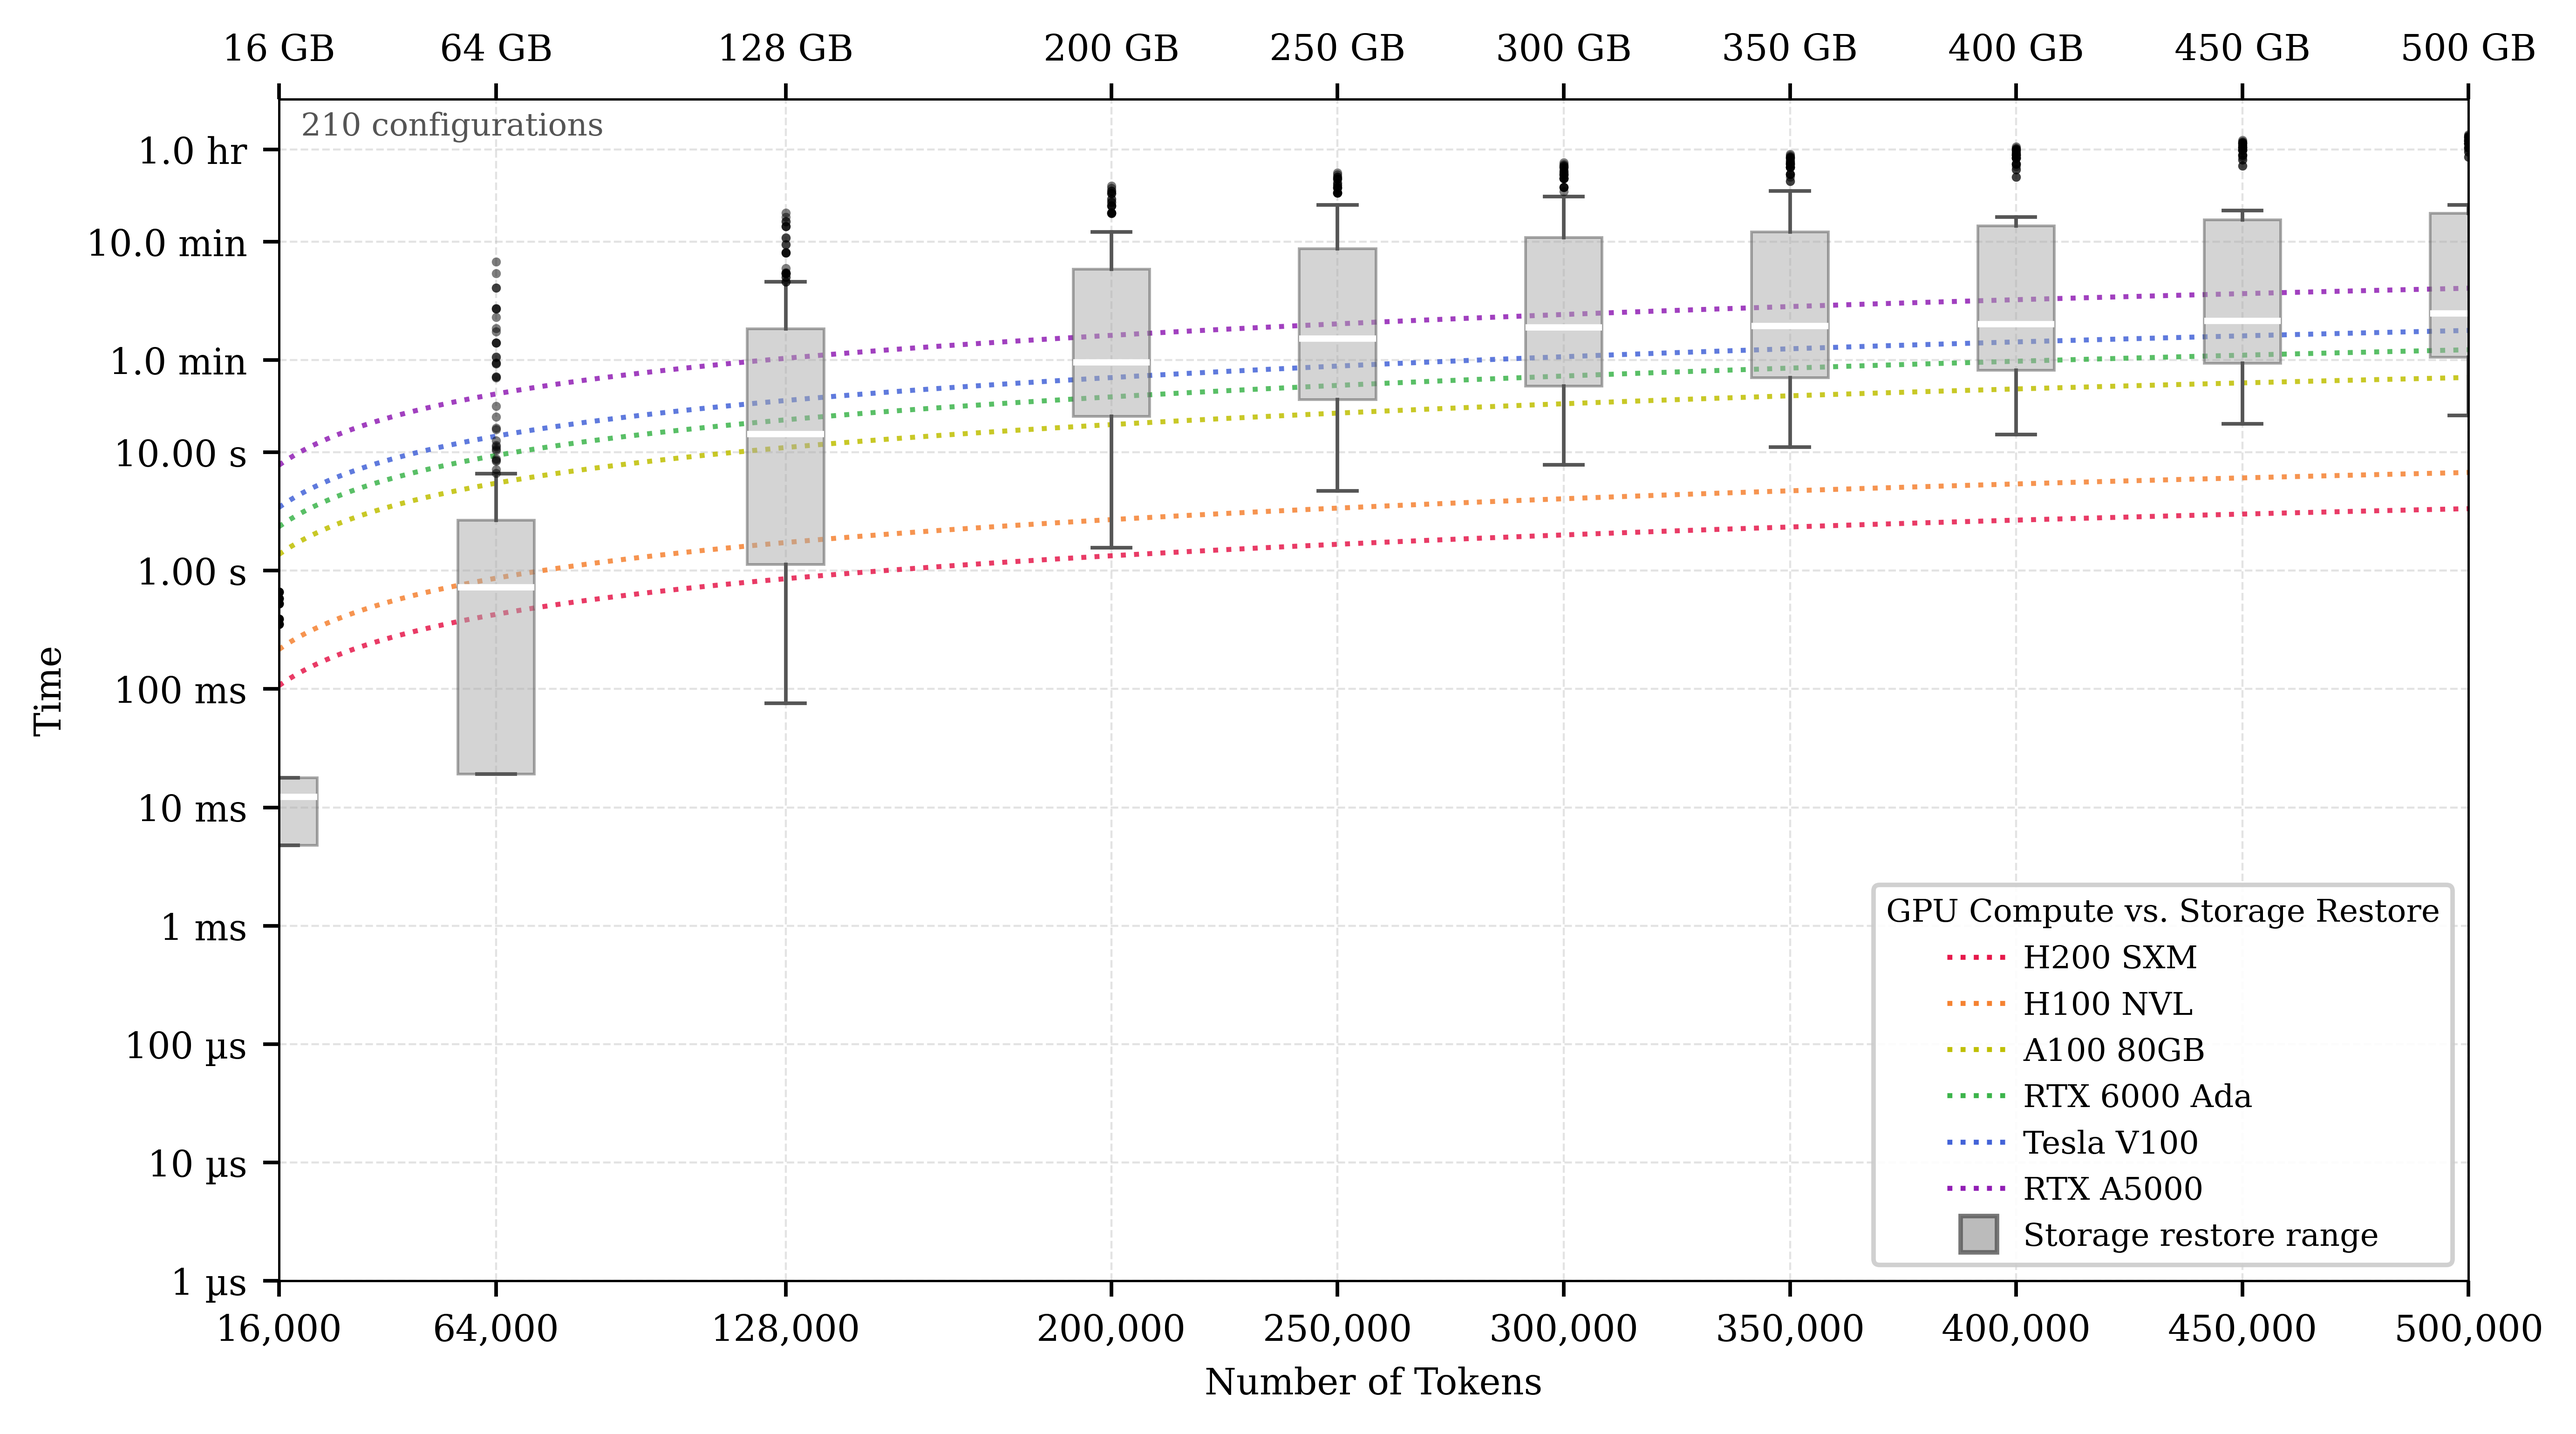
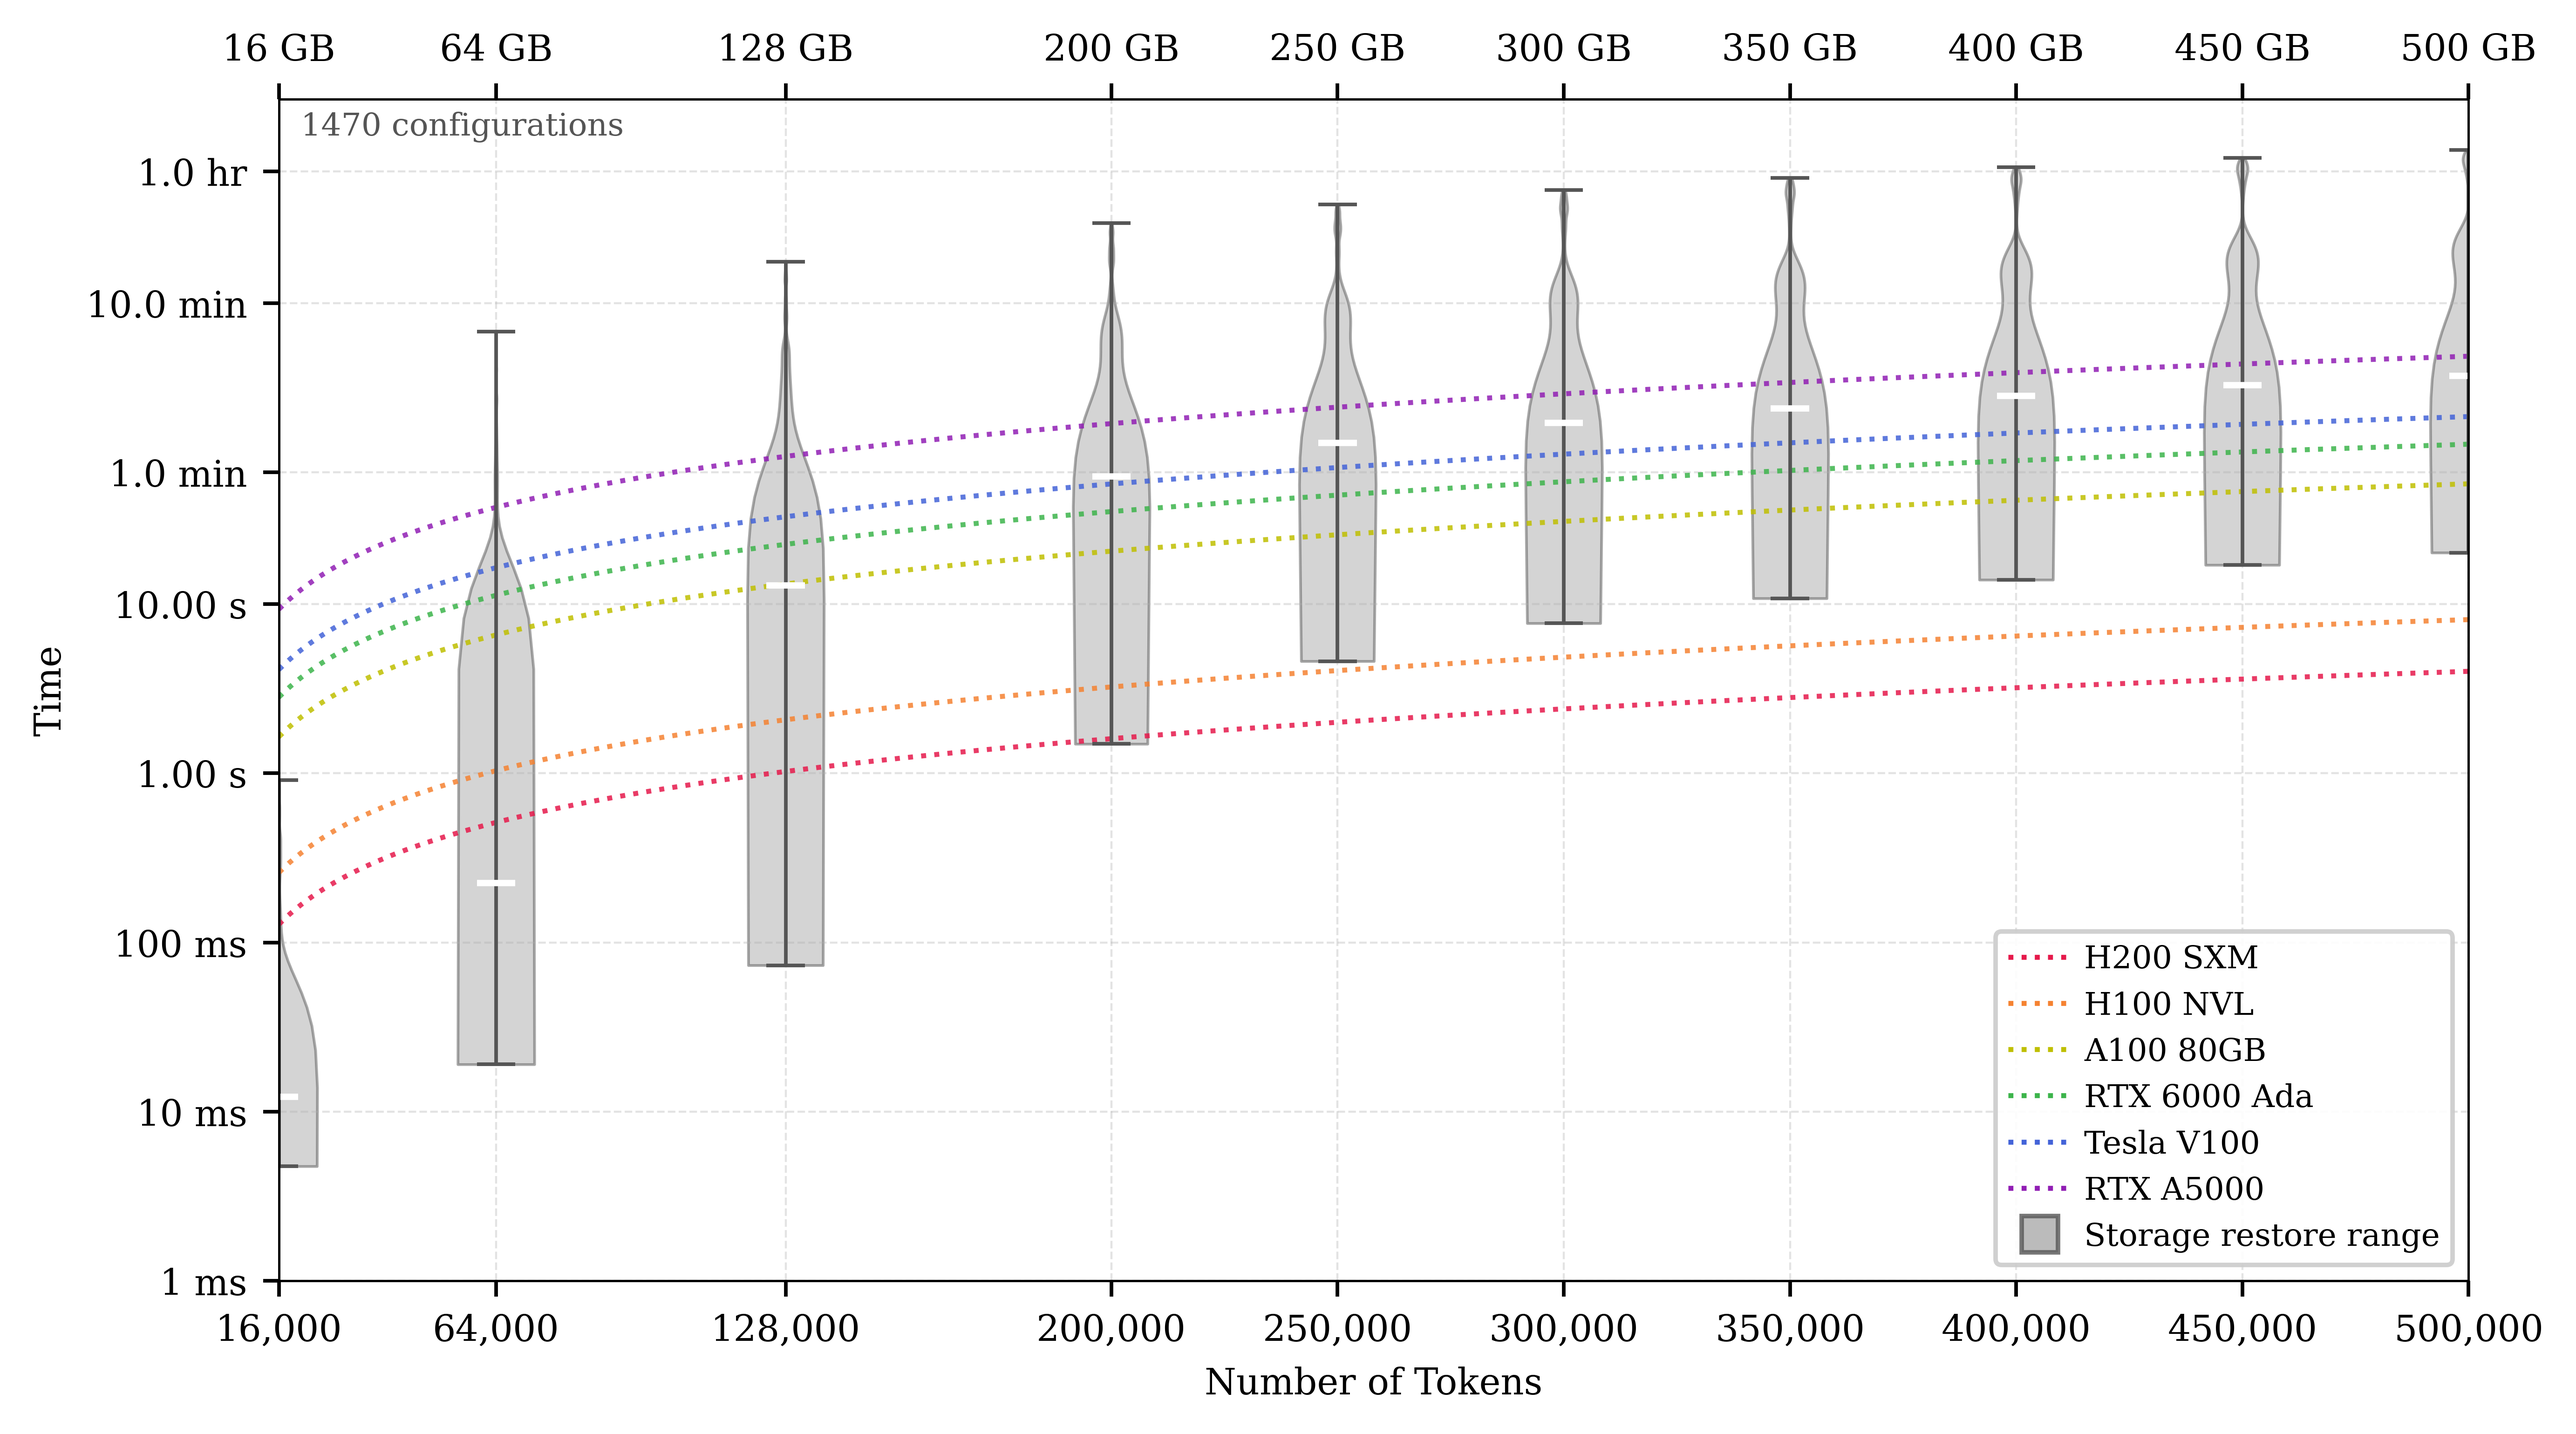
update: scripts

diff --git a/src/pool.py b/src/pool.py
@@ -6,89 +6,89 @@ from .link import Link
 # Define common GPU hardware configurations
 GPUS = {
     # H200 SXM: 3360 GB/s HBM, 141 GB HBM capacity, 4000 TFLOPS peak FP
-    "H200": GPU(name="H200 SXM", hbm_bandwidth=3360e9, hbm_capacity=141e9, peak_flops=4000e12),
+    "H200": GPU(name="H200 SXM", hbm_bandwidth=3360e9, hbm_capacity=141e9, peak_flops=4000e12, cost=40_000),
     # H100 NVL: 3360 GB/s HBM, 80 GB HBM capacity, 4000 TFLOPS peak FP
-    "H100": GPU(name="H100 NVL", hbm_bandwidth=3360e9, hbm_capacity=80e9, peak_flops=1979e12),
+    "H100": GPU(name="H100 NVL", hbm_bandwidth=3360e9, hbm_capacity=80e9, peak_flops=1979e12, cost=24_500),
     # A100 80GB: 2039 GB/s HBM, 80 GB HBM capacity, 312 TFLOPS peak FP
-    "A100": GPU(name="A100 80GB", hbm_bandwidth=2039e9, hbm_capacity=80e9, peak_flops=312e12),
+    "A100": GPU(name="A100 80GB", hbm_bandwidth=2039e9, hbm_capacity=80e9, peak_flops=312e12, cost=12_000),
     # RTX 6000 Ada: 960 GB/s HBM, 48 GB HBM capacity, 182 TFLOPS peak FP
-    "RTX6000": GPU(name="RTX 6000 Ada", hbm_bandwidth=960e9, hbm_capacity=48e9, peak_flops=182e12),
+    "RTX6000": GPU(name="RTX 6000 Ada", hbm_bandwidth=960e9, hbm_capacity=48e9, peak_flops=182e12, cost=8_000),
     # Tesla V100: 897 GB/s HBM, 32 GB HBM capacity, 125 TFLOPS peak FP
-    "V100": GPU(name="Tesla V100", hbm_bandwidth=897e9, hbm_capacity=32e9, peak_flops=125e12),
+    "V100": GPU(name="Tesla V100", hbm_bandwidth=897e9, hbm_capacity=32e9, peak_flops=125e12, cost=3_000),
     # RTX A5000: 768 GB/s HBM, 24 GB HBM capacity, 55 TFLOPS peak FP
-    "A5000": GPU(name="RTX A5000", hbm_bandwidth=768e9, hbm_capacity=24e9, peak_flops=55e12),
+    "A5000": GPU(name="RTX A5000", hbm_bandwidth=768e9, hbm_capacity=24e9, peak_flops=55e12, cost=2_300),
 
     # Grouping by generation
-    "High-End": GPU(name="High-End", hbm_bandwidth=3360e9, hbm_capacity=141e9, peak_flops=4000e12),
-    "Mid-Range": GPU(name="Mid-Range", hbm_bandwidth=2039e9, hbm_capacity=80e9, peak_flops=312e12),
+    "High-End": GPU(name="High-End", hbm_bandwidth=3360e9, hbm_capacity=141e9, peak_flops=4000e12, cost=40_000),
+    "Mid-Range": GPU(name="Mid-Range", hbm_bandwidth=2039e9, hbm_capacity=80e9, peak_flops=312e12, cost=12_000),
 }
 
 # Define common DRAM configurations
 DRAMS = {
     "DDR5-6000": DRAM(
-        name="DDR5-6000", bandwidth=85e9, capacity=32e9
+        name="DDR5-6000", bandwidth=85e9, capacity=32e9, cost=500
     ),  # 85 GB/s, 32 GB
     "DDR5-7200": DRAM(
-        name="DDR5-7200", bandwidth=81e9, capacity=32e9
+        name="DDR5-7200", bandwidth=81e9, capacity=32e9, cost=490
     ),  # 81 GB/s, 32 GB
     "DDR5-5600": DRAM(
-        name="DDR5-5600", bandwidth=62e9, capacity=32e9
+        name="DDR5-5600", bandwidth=62e9, capacity=32e9, cost=280
     ),  # 62 GB/s, 32 GB
     "DDR4-3200": DRAM(
-        name="DDR4-3200", bandwidth=30e9, capacity=16e9
+        name="DDR4-3200", bandwidth=30e9, capacity=16e9, cost=150
     ),  # 30 GB/s, 16 GB
     "DDR4-2133": DRAM(
-        name="DDR4-2133", bandwidth=25e9, capacity=16e9
+        name="DDR4-2133", bandwidth=25e9, capacity=16e9, cost=120
     ),  # 25 GB/s, 16 GB
     "DDR3-1600": DRAM(
-        name="DDR3-1600", bandwidth=20e9, capacity=8e9
+        name="DDR3-1600", bandwidth=20e9, capacity=8e9, cost=60
     ),  # 20 GB/s, 8 GB
 
     # Grouping by generation
-    "DDR5": DRAM(name="DDR5", bandwidth=85e9, capacity=32e9),  # 85 GB/s, 32 GB
-    "DDR4": DRAM(name="DDR4", bandwidth=30e9, capacity=32e9),  # 30 GB/s, 32 GB
+    "DDR5": DRAM(name="DDR5", bandwidth=85e9, capacity=32e9, cost=500),  # 85 GB/s, 32 GB
+    "DDR4": DRAM(name="DDR4", bandwidth=30e9, capacity=32e9, cost=150),  # 30 GB/s, 32 GB
 }
 
 # Define common disk configurations
 DISKS = {
     "HDD": Disk(
-        name="HDD", bandwidth=100e6, capacity=4e12
+        name="HDD", bandwidth=100e6, capacity=4e12, cost=100
     ),  # 100 MB/s, 4 TB
     "X110": Disk(
-        name="SSD X110 SATA M.2", bandwidth=300e6, capacity=256e9
-    ),  # 300 MB/s, 256 GB
+        name="SSD X110 SATA M.2", bandwidth=300e6, capacity=2e12, cost=200
+    ),  # 300 MB/s, 2 TB
     "M550": Disk(
-        name="SSD M550 SATA M.2", bandwidth=400e6, capacity=512e9
+        name="SSD M550 SATA M.2", bandwidth=400e6, capacity=512e9, cost=150
     ),  # 400 MB/s, 512 GB
     "NVMe980": Disk(
-        name="SSD NVMe 980 M.2", bandwidth=2e9, capacity=2e12
+        name="SSD NVMe 980 M.2", bandwidth=2e9, capacity=2e12, cost=300
     ),  # 2 GB/s, 2 TB
     "NVMeT700": Disk(
-        name="SSD NVMe T700 M.2", bandwidth=5e9, capacity=4e12
+        name="SSD NVMe T700 M.2", bandwidth=5e9, capacity=4e12, cost=500
     ),  # 5 GB/s, 4 TB
     "NVMeT700R0": Disk(
-        name="SSD NVMe T700 M.2 (Raid 0)", bandwidth=10e9, capacity=8e12
+        name="SSD NVMe T700 M.2 (Raid 0)", bandwidth=10e9, capacity=8e12, cost=1000
     ),  # 10 GB/s, 8 TB
     "NVMeT700R5": Disk(
-        name="SSD NVMe T700 M.2 (Raid 5)", bandwidth=20e9, capacity=16e12
+        name="SSD NVMe T700 M.2 (Raid 5)", bandwidth=20e9, capacity=16e12, cost=2000
     ),  # 20 GB/s, 16 TB
 
     # Grouping by type
-    "SATA": Disk(name="SATA SSD", bandwidth=300e6, capacity=2e12),   # 300 MB/s, 2 TB
-    "NVMe": Disk(name="NVMe SSD", bandwidth=2e9, capacity=2e12),     # 2 GB/s, 2 TB
+    "SATA": Disk(name="SATA SSD", bandwidth=300e6, capacity=2e12, cost=200),   # 300 MB/s, 2 TB
+    "NVMe": Disk(name="NVMe SSD", bandwidth=2e9, capacity=2e12, cost=500),     # 2 GB/s, 2 TB
 }
 
 # Define common link configurations
 LINKS = {
-    "PCIe3": Link(name="PCIe 3.0 x16", bandwidth=16e9),     # 16 GB/s
-    "PCIe4": Link(name="PCIe 4.0 x16", bandwidth=32e9),     # 32 GB/s
-    "PCIe5": Link(name="PCIe 5.0 x16", bandwidth=64e9),     # 64 GB/s
-    "NVLink3": Link(name="NVLink 3.0", bandwidth=600e9),    # 600 GB/s
-    "NVLink4": Link(name="NVLink 4.0", bandwidth=900e9),    # 900 GB/s
-    "NVLink5": Link(name="NVLink 5.0", bandwidth=1800e9),   # 1800 GB/s
-    "NVLink6": Link(name="NVLink 6.0", bandwidth=3600e9),   # 3600 GB/s
+    "PCIe3": Link(name="PCIe 3.0 x16", bandwidth=16e9, cost=15),     # 16 GB/s
+    "PCIe4": Link(name="PCIe 4.0 x16", bandwidth=32e9, cost=90),     # 32 GB/s
+    "PCIe5": Link(name="PCIe 5.0 x16", bandwidth=64e9, cost=200),     # 64 GB/s
+    "NVLink3": Link(name="NVLink 3.0", bandwidth=600e9, cost=150),    # 600 GB/s
+    "NVLink4": Link(name="NVLink 4.0", bandwidth=900e9, cost=800),    # 900 GB/s
+    "NVLink5": Link(name="NVLink 5.0", bandwidth=1800e9, cost=1600),   # 1800 GB/s
+    "NVLink6": Link(name="NVLink 6.0", bandwidth=3600e9, cost=3200),   # 3600 GB/s
 
     # Grouping by type
-    "PCIe": Link(name="PCIe", bandwidth=32e9),       # 32 GB/s
-    "NVLink": Link(name="NVLink", bandwidth=600e9),  # 600 GB/s
+    "PCIe": Link(name="PCIe", bandwidth=32e9, cost=90),       # 32 GB/s
+    "NVLink": Link(name="NVLink", bandwidth=600e9, cost=150),  # 600 GB/s
 }

diff --git a/main.py b/main.py
@@ -8,6 +8,7 @@ from src.pool import DISKS, DRAMS, GPUS, LINKS
 
 # set the global font family to serif
 plt.rcParams["font.family"] = "serif"
+
 # set the global axis line width
 mpl.rcParams["axes.linewidth"] = 0.5
 
@@ -21,7 +22,7 @@ CONFIG = {
     # "MODEL_PARAMS": 32e9,     # 32 billion parameters
     # "BYTES_PER_BLOCK": 16e6,  # 16 MB per block
     # "MODEL_PARAMS": 128e9,    # 128 billion parameters
-    "GPU_ETA": 0.6           # GPU effectiveness factor
+    "GPU_ETA": 0.5           # GPU effectiveness factor
 }
 
 # GPU family color map — same GPU key = same color
@@ -267,7 +268,8 @@ def make_plot(
             ax.plot(xs, ys, color=color, lw=1.6, linestyle=":", label=compute_label)
 
         # plot the storage line information for the stack
-        storage_label = f"[Restore] {stack_name}"
+        stack_cost = stack["gpu"].cost + stack["dram"].cost * stack["dram_count"] + stack["disk"].cost + stack["link"].cost
+        storage_label = f"[Restore] {stack_name} (${stack_cost:.0f})"
         legend_items.append(
             Line2D([0], [0], color=color, lw=1.6, linestyle="-", label=storage_label)
         )
@@ -345,6 +347,7 @@ def make_plot(
 _PERM_GPU_KEYS  = ["H200", "H100", "A100", "RTX6000", "V100", "A5000"]
 _PERM_DRAM_KEYS = ["DDR5-6000", "DDR5-5600", "DDR4-3200", "DDR4-2133", "DDR3-1600"]
 _PERM_DISK_KEYS = ["HDD", "X110", "M550", "NVMe980", "NVMeT700", "NVMeT700R0", "NVMeT700R5"]
+_PERM_LINK_KEYS = ["PCIe3", "PCIe4", "PCIe5", "NVLink3", "NVLink4", "NVLink5", "NVLink6"]
 
 # One color per GPU — all (GPU, *, *) dots share the GPU's color
 _PERM_GPU_COLORS = {
@@ -405,7 +408,7 @@ def make_permutation_plot(figsize=(8, 4.5), dpi=700, output="plot_permutations.p
     model_params = CONFIG["MODEL_PARAMS"]
 
     x_ticks = [16_000, 64_000, 128_000, 200_000, 250_000, 300_000, 350_000, 400_000, 450_000, 500_000]
-    y_ticks  = [1e-6, 1e-5, 1e-4, 1e-3, 1e-2, 1e-1, 1, 10, 60, 600, 3600]
+    y_ticks  = [1e-3, 1e-2, 1e-1, 1, 10, 60, 600, 3600]
 
     _, ax = plt.subplots(figsize=figsize, dpi=dpi)
     ax.set_yscale("log")
@@ -416,13 +419,13 @@ def make_permutation_plot(figsize=(8, 4.5), dpi=700, output="plot_permutations.p
     # Collect storage times across ALL permutations per tick (one merged pool)
     data = {x: [] for x in x_ticks}
     total_options = 0
-    for gpu_key, dram_key, disk_key in itertools.product(
-        _PERM_GPU_KEYS, _PERM_DRAM_KEYS, _PERM_DISK_KEYS
+    for gpu_key, dram_key, disk_key, link_key in itertools.product(
+        _PERM_GPU_KEYS, _PERM_DRAM_KEYS, _PERM_DISK_KEYS, _PERM_LINK_KEYS
     ):
         gpu  = GPUS[gpu_key]
         dram = DRAMS[dram_key]
         disk = DISKS[disk_key]
-        link = _pick_link(gpu_key)
+        link = LINKS[link_key]
         total_options += 1
         for x in x_ticks:
             t = _storage_time_at(x, model_params, gpu, dram, disk, link)
@@ -443,22 +446,25 @@ def make_permutation_plot(figsize=(8, 4.5), dpi=700, output="plot_permutations.p
             Line2D([0], [0], color=color, lw=1.1, linestyle=":", label=gpu.name)
         )
 
-    # Single merged box per tick
-    box_data = [data[x] for x in x_ticks]
-    ax.boxplot(
-        box_data,
+    # Single merged violin per tick
+    vp = ax.violinplot(
+        [data[x] for x in x_ticks],
         positions=x_ticks,
         widths=box_w,
-        patch_artist=True,
-        manage_ticks=False,
-        zorder=3,
-        medianprops=dict(color="white", linewidth=1.4),
-        whiskerprops=dict(color="#555555", linewidth=0.8),
-        capprops=dict(color="#555555", linewidth=0.8),
-        flierprops=dict(marker=".", color="#888888", markersize=2, alpha=0.5,
-                        linestyle="none"),
-        boxprops=dict(facecolor="#aaaaaa", alpha=0.5, linewidth=0.6, edgecolor="#555555"),
+        showmedians=True,
+        showextrema=True,
     )
+    for body in vp["bodies"]:
+        body.set_facecolor("#aaaaaa")
+        body.set_edgecolor("#555555")
+        body.set_alpha(0.5)
+        body.set_linewidth(0.6)
+    for part in ("cmedians", "cmins", "cmaxes", "cbars"):
+        vp[part].set_color("#555555")
+        vp[part].set_linewidth(0.8)
+    vp["cmedians"].set_color("white")
+    vp["cmedians"].set_linewidth(1.4)
+
     legend_items.append(
         Line2D([0], [0], marker="s", color="w", markerfacecolor="#aaaaaa",
                markeredgecolor="#555555", markersize=8, alpha=0.8,
@@ -491,8 +497,6 @@ def make_permutation_plot(figsize=(8, 4.5), dpi=700, output="plot_permutations.p
 
     ax.legend(
         handles=legend_items,
-        title="GPU Compute vs. Storage Restore",
-        title_fontsize=7,
         loc="lower right",
         fontsize=7,
         framealpha=0.92,

diff --git a/src/gpu.py b/src/gpu.py
@@ -6,6 +6,7 @@ class GPU:
     hbm_bandwidth: int
     hbm_capacity: int
     peak_flops: int
+    cost: int
 
     def gpu_compute_band(self, model_params: int, gpu_count: int = 1, eta: float = 0.6):
         # compute time per token

diff --git a/src/link.py b/src/link.py
@@ -4,3 +4,4 @@ from dataclasses import dataclass
 class Link:
     name: str
     bandwidth: int
+    cost: int

diff --git a/src/disk.py b/src/disk.py
@@ -5,3 +5,4 @@ class Disk:
     name: str
     bandwidth: int
     capacity: int
+    cost: int

diff --git a/src/dram.py b/src/dram.py
@@ -5,3 +5,4 @@ class DRAM:
     name: str
     bandwidth: int
     capacity: int
+    cost: int
